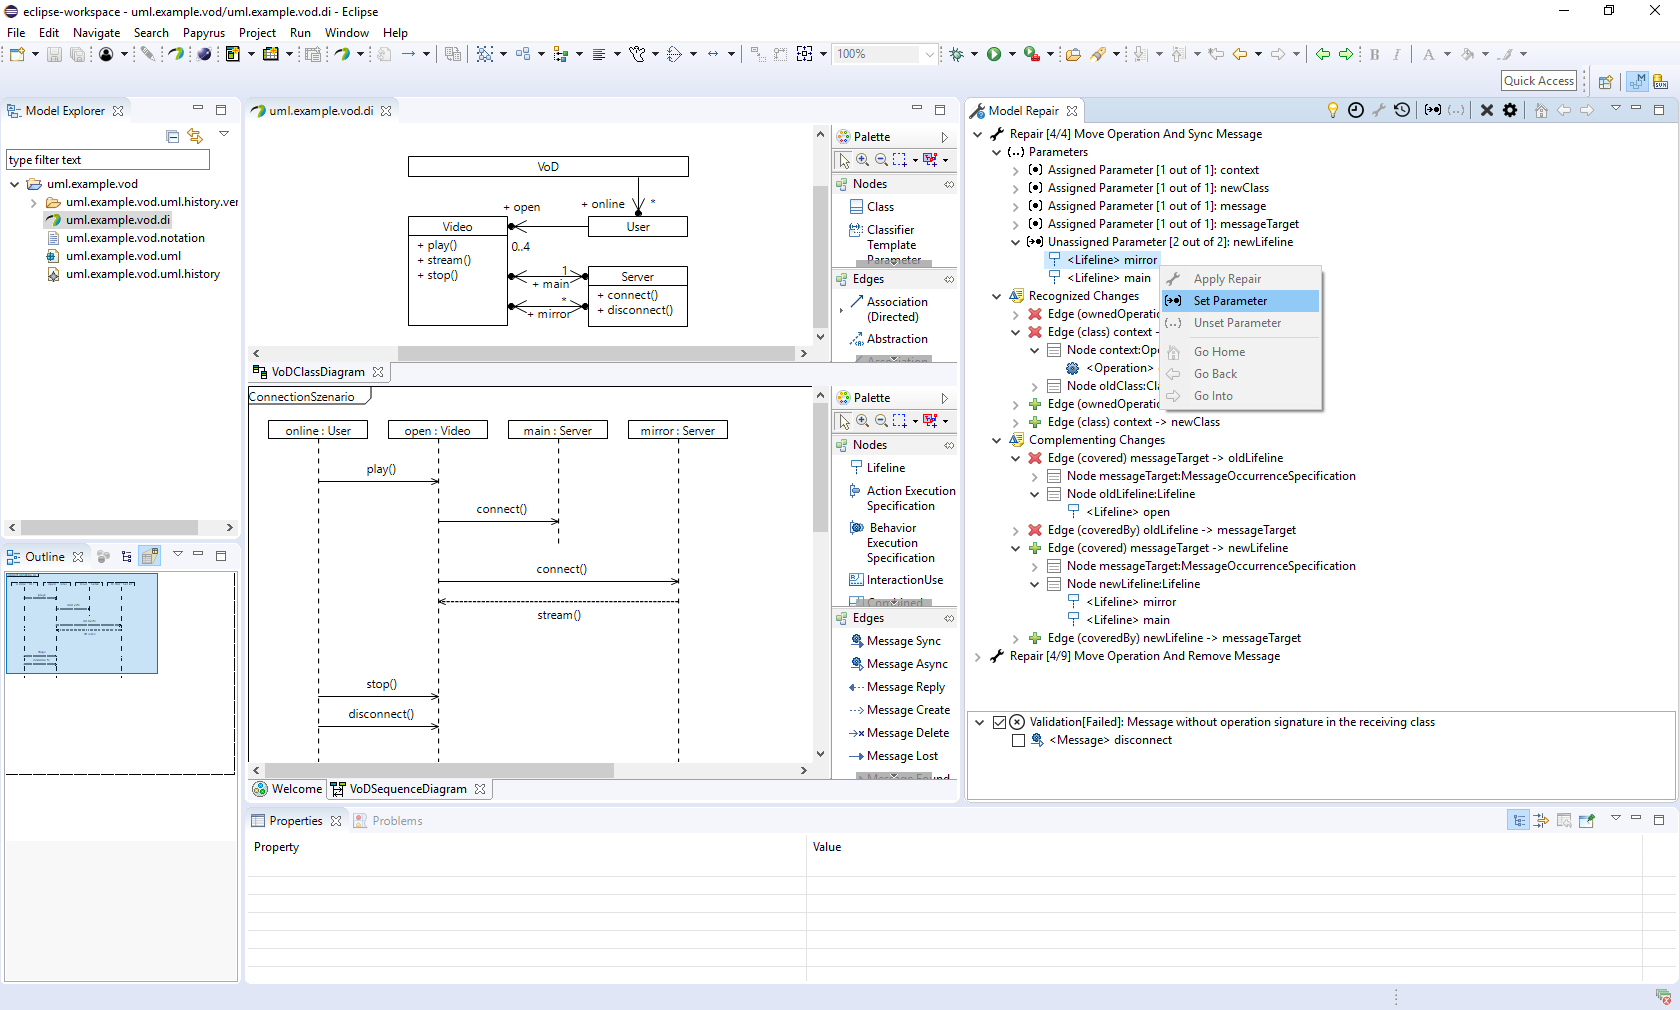
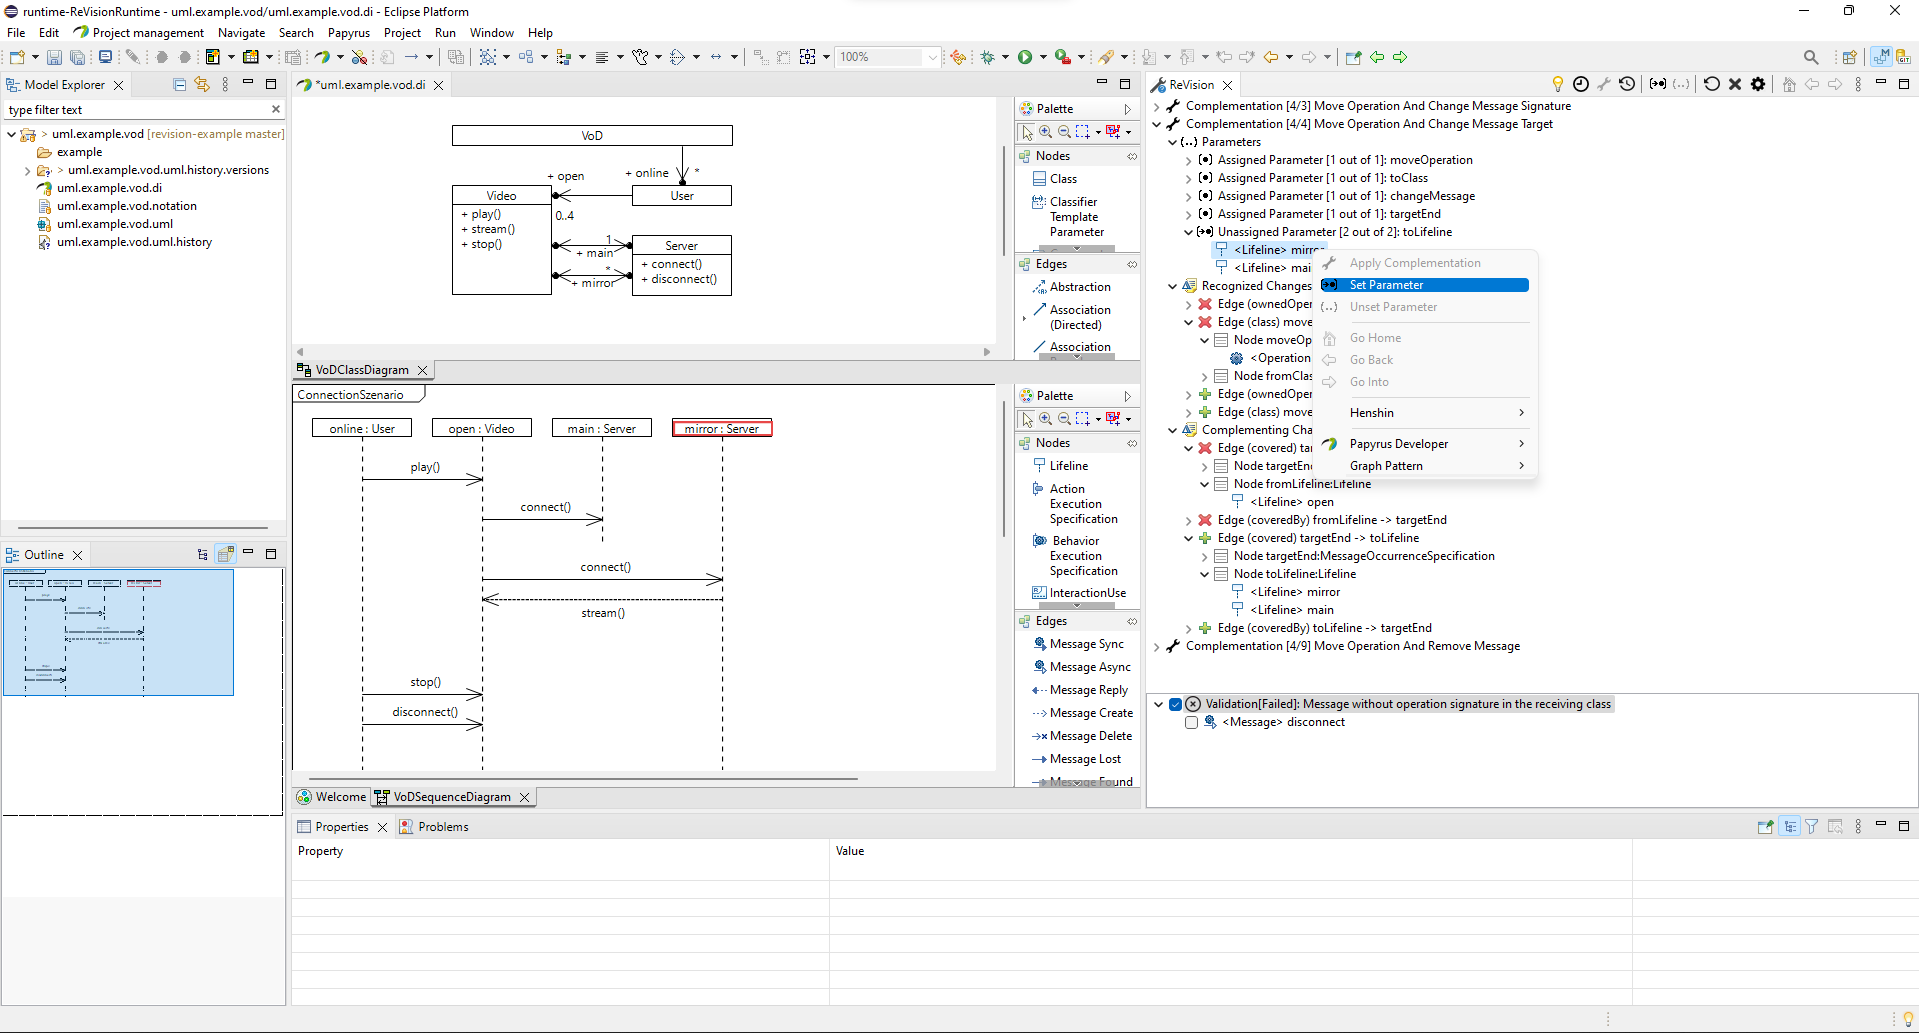
update tutorial

diff --git a/_pages/gettingstarted/index.md b/_pages/gettingstarted/index.md
@@ -38,10 +38,10 @@ Read the [Quick Introduction](#quick-introduction) for a step-by-step installati
    * __{{ revisionupdatesite }}__
 
 _Note:_ ReVision provides an all-in-one update including the following update sites:
-  * Papyrus: <sub>{{ papyrusupdatesite }}</sub>
-  * GMF Tooling: <sub>{{ gmftoolingupdatesite }}</sub>
-  * OCL: <sub>{{ oclupdatesite }}</sub>
-  * SVNKit: <sub>{{ subclipseupdatesite }}</sub>
+  * <font size="4">Papyrus: {{ papyrusupdatesite }}</font>
+  * <font size="4">GMF Tooling: <sub>{{ gmftoolingupdatesite }}</font>
+  * <font size="4">OCL: {{ oclupdatesite }}</font>
+  * <font size="4">SVNKit: {{ subclipseupdatesite }}</font>
      
 ### Example Project
 
@@ -99,6 +99,12 @@ In this Section, we illustrate the essential steps to install and work with ReVi
 
 {% assign fig = fig | plus: 1 %}
 {% assign fig_step14 = fig %}
+
+{% assign fig = fig | plus: 1 %}
+{% assign fig_step15 = fig %}
+
+{% assign fig = fig | plus: 1 %}
+{% assign fig_step16 = fig %}
 
 #### Step 1: Installation
 
@@ -232,7 +238,7 @@ In this step, we will validate the video-on-demand example model. In the view of
 
 * __Parameters:__ Some of the repairs have parameters that need to be supplied with additional arguments. For example, go to the parameter 'toLifeline' of the repair 'Move Operation And Change Message Target'. Select the argument '<Lifeline> mirror' and then select 'Set Parameter' form the context menu or from the toolbar.
 * __Recognized Changes:__ ReVision recognized these changes as origin of the defect of the inconsistency. Those changes were extracted from the version history of the model.
-* __Complementing Changes:__ The changes that are proposed by ReVision to repair the selected inconsistency. The set of both change (Recognized and Complementing) refer to the consistency-preserving edit operation 'Move Operation And Sync Message'.
+* __Complementing Changes:__ The changes that are proposed by ReVision to repair the selected inconsistency. The set of both change (Recognized and Complementing) refer to the consistency-preserving edit operation 'Move Operation And Change Message Target'.
 
 You can select the change sets or parameters and ReVision will highlight them in model editor (see <a href="#fig:{{ fig_step14 }}">Figure {{ fig_step14 }}</a>).
 
@@ -244,8 +250,33 @@ You can select the change sets or parameters and ReVision will highlight them in
 
 Finally, you can apply the repair for resolving the inconsistency and soon after checking the results (see <a href="#fig:{{ fig_step14 }}">Figure {{ fig_step14 }}</a>).
 
+_Note: Sometimes it's necessary to correct the layout of messages in the Papyrus sequence diagram after applying changes. _
+
 <figure class="aligncenter">
 	<a href="{{folderpath}}images/14.png" target="_blank">
 	<img style="width: 400px" id="fig:{{ fig_step14 }}" src="{{folderpath}}images/14.png"/></a>
 	<figcaption style="text-align: center">Fig. {{ fig_step14 }}: Appying the repair</figcaption>
 </figure>
+
+After applying a repair, ReVision automatically checks for new or remaining inconsistencies. 
+In our repair scenario we have introduced a new inconsistency 'A message can only be send between lifelines which are connected by an association' (see <a href="#fig:{{ fig_step15 }}">Figure {{ fig_step15 }}</a>). 
+In this case, there is no association between class User and Server, i.e., the objects online:User and mirror:Server cannot (directly) communicate with each other.
+
+<figure class="aligncenter">
+	<a href="{{folderpath}}images/15.png" target="_blank">
+	<img style="width: 400px" id="fig:{{ fig_step15 }}" src="{{folderpath}}images/15.png"/></a>
+	<figcaption style="text-align: center">Fig. {{ fig_step15 }}: Incrementally checking for inconsistencies</figcaption>
+</figure>
+
+This inconsistency can be incrementally repaired by applying the complementation of 'Move Message'.
+This repair additionally changes the sender of the message disconnect from the lifeline online:User to the mirror:Server.
+
+_Note: Sometimes it's necessary to correct the layout of messages in the Papyrus sequence diagram after applying changes. _
+
+<figure class="aligncenter">
+	<a href="{{folderpath}}images/16.png" target="_blank">
+	<img style="width: 400px" id="fig:{{ fig_step16 }}" src="{{folderpath}}images/16.png"/></a>
+	<figcaption style="text-align: center">Fig. {{ fig_step16 }}: Appying the final repair</figcaption>
+</figure>
+
+Congratulations, the inconsistency between the class and sequence diagram is now fixed!
